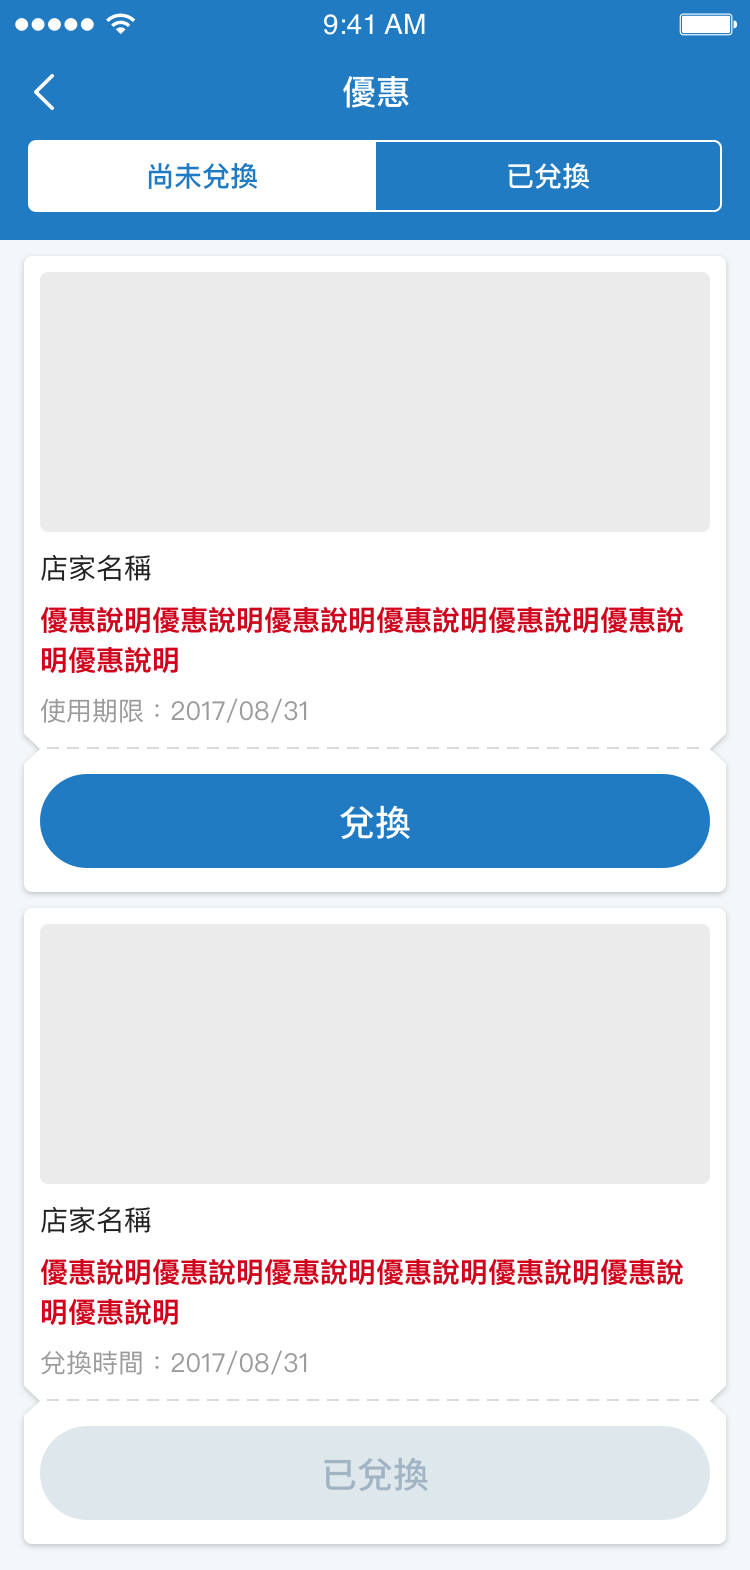
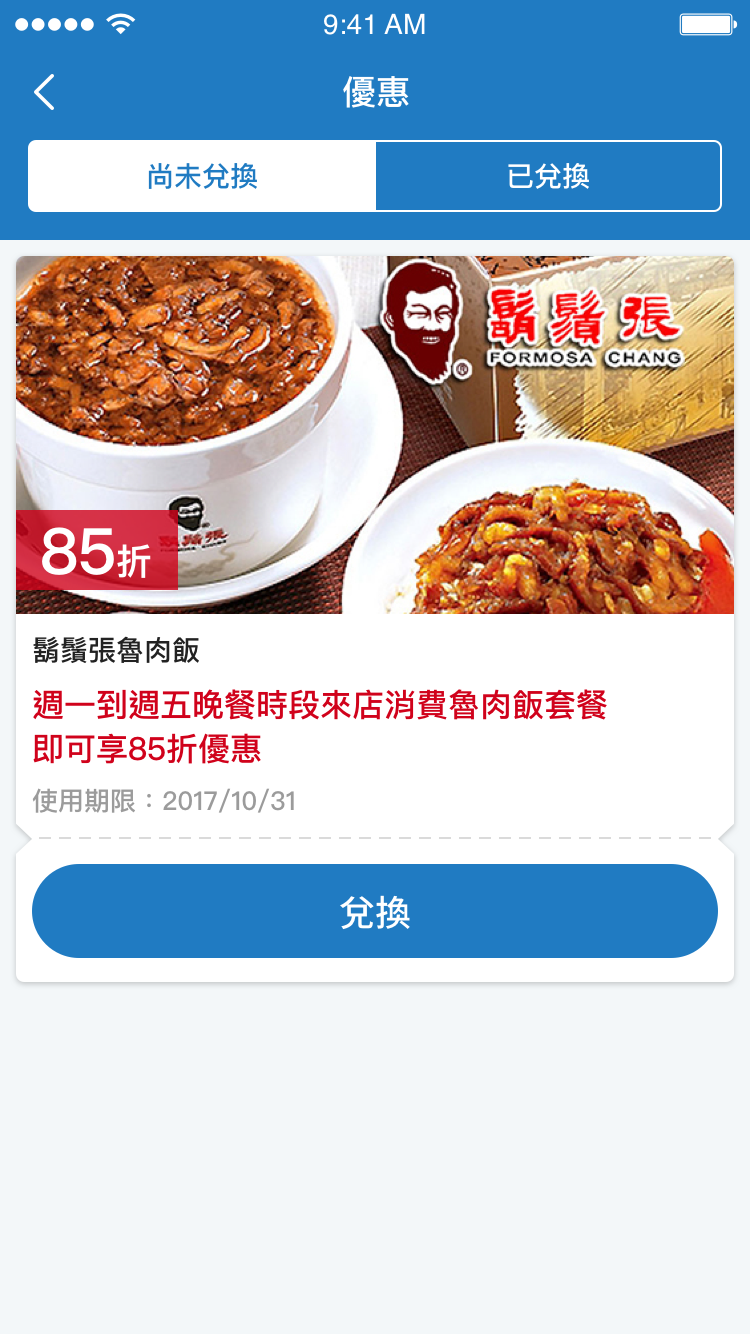
update

diff --git a/alley-balloon-coupon-layout/index.html b/alley-balloon-coupon-layout/index.html
@@ -1559,7 +1559,7 @@ var I18N = {},
     init.prototype = SMApp.fn;
     window.SMApp = SMApp;
 })(window);
-$(function(){ SMApp({"scale":"1","unit":"px","colorFormat":"color-hex","artboards":[{"layers":[{"objectID":"8610A9D0-973A-4421-8F44-31B89778BF35","type":"shape","name":"Rectangle 6","rect":{"x":0,"y":68,"width":375,"height":717},"rotation":0,"radius":0,"borders":[],"fills":[{"fillType":"color","color":{"r":243,"g":247,"b":249,"a":1,"color-hex":"#F4F8F9 100%","argb-hex":"#FFF4F8F9","css-rgba":"rgba(243,247,249,1)","ui-color":"(r:0.95 g:0.97 b:0.98 a:1.00)"}}],"shadows":[],"opacity":1,"styleName":"","css":["background: #F4F8F9;"]},{"objectID":"3B1EC3C6-A33A-4EE7-A2D1-324081E6A6C8","type":"shape","name":"background","rect":{"x":0,"y":24,"width":375,"height":96},"rotation":0,"radius":0,"borders":[],"fills":[{"fillType":"color","color":{"r":32,"g":123,"b":194,"a":1,"color-hex":"#207BC2 100%","argb-hex":"#FF207BC2","css-rgba":"rgba(32,123,194,1)","ui-color":"(r:0.13 g:0.48 b:0.76 a:1.00)"}}],"shadows":[],"opacity":1,"styleName":"status bar color","css":["background: #207BC2;"]},{"objectID":"BF7CF2E0-CB69-4DC6-8B53-1CFF3DAE0DD7","type":"shape","name":"ui_icon_prev_size","rect":{"x":10,"y":34,"width":24,"height":24},"rotation":0,"radius":0,"borders":[],"fills":[{"fillType":"color","color":{"r":255,"g":255,"b":255,"a":0,"color-hex":"#FFFFFF 0%","argb-hex":"#00FFFFFF","css-rgba":"rgba(255,255,255,0)","ui-color":"(r:1.00 g:1.00 b:1.00 a:0.00)"}}],"shadows":[],"opacity":1,"styleName":"","css":["background: rgba(255,255,255,0.00);"]},{"objectID":"324F9A0F-9A84-4340-9693-9F0C6B980D2B","type":"shape","name":"ui_icon_prev","rect":{"x":17,"y":37,"width":10,"height":18},"rotation":0,"radius":0,"borders":[],"fills":[{"fillType":"color","color":{"r":255,"g":255,"b":255,"a":1,"color-hex":"#FFFFFF 100%","argb-hex":"#FFFFFFFF","css-rgba":"rgba(255,255,255,1)","ui-color":"(r:1.00 g:1.00 b:1.00 a:1.00)"}}],"shadows":[],"opacity":1,"styleName":"","css":["background: #FFFFFF;"]},{"objectID":"C705EAAA-3D41-4813-89AF-B72F4C088D2E","type":"text","name":"優惠","rect":{"x":171,"y":34,"width":34,"height":24},"rotation":0,"radius":0,"borders":[],"fills":[],"shadows":[],"opacity":1,"styleName":"","content":"優惠","color":{"r":255,"g":255,"b":255,"a":1,"color-hex":"#FFFFFF 100%","argb-hex":"#FFFFFFFF","css-rgba":"rgba(255,255,255,1)","ui-color":"(r:1.00 g:1.00 b:1.00 a:1.00)"},"fontSize":17,"fontFace":"PingFangTC-Medium","textAlign":"center","letterSpacing":0,"lineHeight":24,"css":["font-family: PingFangTC-Medium;","font-size: 17px;","color: #FFFFFF;","letter-spacing: 0;"]},{"objectID":"1E3D4C58-2A70-46F6-A56C-1A8B91485D26","type":"shape","name":"BG","rect":{"x":0,"y":0,"width":375,"height":24},"rotation":0,"radius":0,"borders":[],"fills":[{"fillType":"color","color":{"r":32,"g":123,"b":194,"a":1,"color-hex":"#207BC2 100%","argb-hex":"#FF207BC2","css-rgba":"rgba(32,123,194,1)","ui-color":"(r:0.13 g:0.48 b:0.76 a:1.00)"}}],"shadows":[],"opacity":1,"styleName":"status bar color","css":["background: #207BC2;"]},{"objectID":"FBA2F31B-34FE-48B7-BB8A-BFACDF76E08A","type":"shape","name":"Battery","rect":{"x":339.8,"y":6.8,"width":28.7,"height":10.9},"rotation":0,"radius":0,"borders":[],"fills":[{"fillType":"color","color":{"r":255,"g":255,"b":255,"a":1,"color-hex":"#FFFFFF 100%","argb-hex":"#FFFFFFFF","css-rgba":"rgba(255,255,255,1)","ui-color":"(r:1.00 g:1.00 b:1.00 a:1.00)"}}],"shadows":[],"opacity":1,"styleName":"","css":["background: #FFFFFF;"]},{"objectID":"FB483434-2F03-4683-956F-0640AC6F3B1A","type":"text","name":"9:41 AM","rect":{"x":161.7,"y":2.9,"width":52,"height":17},"rotation":0,"radius":0,"borders":[],"fills":[],"shadows":[],"opacity":1,"styleName":"","content":"9:41 AM","color":{"r":255,"g":255,"b":255,"a":1,"color-hex":"#FFFFFF 100%","argb-hex":"#FFFFFFFF","css-rgba":"rgba(255,255,255,1)","ui-color":"(r:1.00 g:1.00 b:1.00 a:1.00)"},"fontSize":14.0625,"fontFace":"Helvetica","textAlign":"left","letterSpacing":0,"lineHeight":17,"css":["font-family: Helvetica;","font-size: 14.06px;","color: #FFFFFF;"]},{"objectID":"928CE732-A265-4B57-B723-18C6DA9BD9D1","type":"shape","name":"WiFi","rect":{"x":53.2,"y":6.7,"width":14.6,"height":10.4},"rotation":0,"radius":0,"borders":[],"fills":[{"fillType":"color","color":{"r":255,"g":255,"b":255,"a":1,"color-hex":"#FFFFFF 100%","argb-hex":"#FFFFFFFF","css-rgba":"rgba(255,255,255,1)","ui-color":"(r:1.00 g:1.00 b:1.00 a:1.00)"}}],"shadows":[],"opacity":1,"styleName":"","css":["background: #FFFFFF;"]},{"objectID":"B6E03900-EC7E-46A4-A78B-274AEFE6C1BF","type":"shape","name":"Bars","rect":{"x":7.6,"y":9,"width":39.3,"height":6.3},"rotation":0,"radius":0,"borders":[],"fills":[{"fillType":"color","color":{"r":255,"g":255,"b":255,"a":1,"color-hex":"#FFFFFF 100%","argb-hex":"#FFFFFFFF","css-rgba":"rgba(255,255,255,1)","ui-color":"(r:1.00 g:1.00 b:1.00 a:1.00)"}}],"shadows":[],"opacity":1,"styleName":"","css":["background: #FFFFFF;"]},{"objectID":"564F90EA-9BC2-44D7-970A-01A9C32FAA70","type":"shape","name":"Rectangle 7","rect":{"x":12,"y":128,"width":351,"height":318},"rotation":0,"radius":4,"borders":[],"fills":[{"fillType":"color","color":{"r":255,"g":255,"b":255,"a":1,"color-hex":"#FFFFFF 100%","argb-hex":"#FFFFFFFF","css-rgba":"rgba(255,255,255,1)","ui-color":"(r:1.00 g:1.00 b:1.00 a:1.00)"}}],"shadows":[{"type":"outer","offsetX":0,"offsetY":1,"blurRadius":3,"spread":0,"color":{"r":0,"g":0,"b":0,"a":0.19986979166666666,"color-hex":"#000000 20%","argb-hex":"#33000000","css-rgba":"rgba(0,0,0,0.2)","ui-color":"(r:0.00 g:0.00 b:0.00 a:0.20)"}}],"opacity":1,"styleName":"","css":["background: #FFFFFF;","box-shadow: 0 1px 3px 0 rgba(0,0,0,0.20);","border-radius: 4px 4px 0 0 0 4px 4px 0 0 0;"]},{"objectID":"C19F3055-AA9B-401D-B66C-4CAD36815E12","type":"shape","name":"Rectangle 3","rect":{"x":20,"y":387,"width":335,"height":47},"rotation":0,"radius":100,"borders":[],"fills":[{"fillType":"color","color":{"r":32,"g":123,"b":194,"a":1,"color-hex":"#207BC2 100%","argb-hex":"#FF207BC2","css-rgba":"rgba(32,123,194,1)","ui-color":"(r:0.13 g:0.48 b:0.76 a:1.00)"}}],"shadows":[],"opacity":1,"styleName":"","css":["background: #207BC2;","border-radius: 100px;"]},{"objectID":"FDAD7F8E-DA9B-4FC0-8BA6-B6952EA7FE68","type":"text","name":"兌換","rect":{"x":169,"y":397,"width":37,"height":27},"rotation":0,"radius":0,"borders":[],"fills":[],"shadows":[],"opacity":1,"styleName":"","content":"兌換","color":{"r":255,"g":255,"b":255,"a":1,"color-hex":"#FFFFFF 100%","argb-hex":"#FFFFFFFF","css-rgba":"rgba(255,255,255,1)","ui-color":"(r:1.00 g:1.00 b:1.00 a:1.00)"},"fontSize":18,"fontFace":"SourceHanSansTC-Medium","textAlign":"center","letterSpacing":0,"lineHeight":27,"css":["font-family: SourceHanSansTC-Medium;","font-size: 18px;","color: #FFFFFF;"]},{"objectID":"9CEFEEB9-65F5-45E2-8CB2-7EAFF09E5242","type":"shape","name":"Rectangle 8","rect":{"x":20,"y":136,"width":335,"height":130},"rotation":0,"radius":4,"borders":[],"fills":[{"fillType":"color","color":{"r":235,"g":235,"b":235,"a":1,"color-hex":"#ECECEC 100%","argb-hex":"#FFECECEC","css-rgba":"rgba(235,235,235,1)","ui-color":"(r:0.92 g:0.92 b:0.92 a:1.00)"}}],"shadows":[],"opacity":1,"styleName":"","css":["background: #ECECEC;","border-radius: 4px;"]},{"objectID":"6A7AD0DC-A009-48E6-B0F5-1644F9E1DBC2","type":"text","name":"店家名稱","rect":{"x":20,"y":274,"width":335,"height":20},"rotation":0,"radius":0,"borders":[],"fills":[],"shadows":[],"opacity":1,"styleName":"","content":"店家名稱","color":{"r":34,"g":34,"b":34,"a":1,"color-hex":"#222222 100%","argb-hex":"#FF222222","css-rgba":"rgba(34,34,34,1)","ui-color":"(r:0.13 g:0.13 b:0.13 a:1.00)"},"fontSize":14,"fontFace":"PingFangTC-Regular","textAlign":"left","letterSpacing":0,"lineHeight":20,"css":["font-family: PingFangTC-Regular;","font-size: 14px;","color: #222222;"]},{"objectID":"AF50EFF7-F386-4E2E-959D-EE3B07BD4F72","type":"text","name":"使用期限：2017/08/31","rect":{"x":20,"y":346,"width":135,"height":18},"rotation":0,"radius":0,"borders":[],"fills":[],"shadows":[],"opacity":1,"styleName":"","content":"使用期限：2017/08/31","color":{"r":155,"g":155,"b":155,"a":1,"color-hex":"#9B9B9B 100%","argb-hex":"#FF9B9B9B","css-rgba":"rgba(155,155,155,1)","ui-color":"(r:0.61 g:0.61 b:0.61 a:1.00)"},"fontSize":13,"fontFace":"PingFangTC-Regular","textAlign":"left","letterSpacing":0,"lineHeight":18,"css":["font-family: PingFangTC-Regular;","font-size: 13px;","color: #9B9B9B;"]},{"objectID":"43FEBCC8-FA78-43B3-AB3D-58E60FB1A6EE","type":"text","name":"優惠說明優惠說明優惠說明優惠說明優惠說明","rect":{"x":20,"y":300,"width":335,"height":40},"rotation":0,"radius":0,"borders":[],"fills":[],"shadows":[],"opacity":1,"styleName":"","content":"優惠說明優惠說明優惠說明優惠說明優惠說明優惠說明優惠說明","color":{"r":208,"g":2,"b":27,"a":1,"color-hex":"#D0011B 100%","argb-hex":"#FFD0011B","css-rgba":"rgba(208,2,27,1)","ui-color":"(r:0.82 g:0.01 b:0.11 a:1.00)"},"fontSize":14,"fontFace":"PingFangTC-Semibold","textAlign":"left","letterSpacing":0,"lineHeight":20,"css":["font-family: PingFangTC-Semibold;","font-size: 14px;","color: #D0011B;"]},{"objectID":"F455182E-896A-410B-8F58-A05C8C5017A7","type":"shape","name":"Line","rect":{"x":24,"y":373,"width":330,"height":2},"rotation":0,"radius":0,"borders":[{"fillType":"color","position":"center","thickness":1,"color":{"r":218,"g":218,"b":218,"a":1,"color-hex":"#DADADA 100%","argb-hex":"#FFDADADA","css-rgba":"rgba(218,218,218,1)","ui-color":"(r:0.85 g:0.85 b:0.85 a:1.00)"}}],"fills":[],"shadows":[],"opacity":1,"styleName":"","css":["border: 1px solid #DADADA;"]},{"objectID":"1D7B16E3-2DB3-4CAC-9AE8-14DD0020FBD6","type":"shape","name":"Rectangle 7","rect":{"x":12,"y":454,"width":351,"height":318},"rotation":0,"radius":4,"borders":[],"fills":[{"fillType":"color","color":{"r":255,"g":255,"b":255,"a":1,"color-hex":"#FFFFFF 100%","argb-hex":"#FFFFFFFF","css-rgba":"rgba(255,255,255,1)","ui-color":"(r:1.00 g:1.00 b:1.00 a:1.00)"}}],"shadows":[{"type":"outer","offsetX":0,"offsetY":1,"blurRadius":3,"spread":0,"color":{"r":0,"g":0,"b":0,"a":0.1998697916666667,"color-hex":"#000000 20%","argb-hex":"#33000000","css-rgba":"rgba(0,0,0,0.2)","ui-color":"(r:0.00 g:0.00 b:0.00 a:0.20)"}}],"opacity":1,"styleName":"","css":["background: #FFFFFF;","box-shadow: 0 1px 3px 0 rgba(0,0,0,0.20);","border-radius: 4px 4px 0 0 0 4px 4px 0 0 0;"]},{"objectID":"BB6C82DF-63BF-4619-989B-9B29CB90D52D","type":"shape","name":"Rectangle 3","rect":{"x":20,"y":713,"width":335,"height":47},"rotation":0,"radius":100,"borders":[],"fills":[{"fillType":"color","color":{"r":222,"g":231,"b":235,"a":1,"color-hex":"#DEE7EB 100%","argb-hex":"#FFDEE7EB","css-rgba":"rgba(222,231,235,1)","ui-color":"(r:0.87 g:0.91 b:0.92 a:1.00)"}}],"shadows":[],"opacity":1,"styleName":"","css":["background: #DEE7EB;","border-radius: 100px;"]},{"objectID":"3D98A926-83EE-4628-A8CC-85A8447E74AE","type":"text","name":"已兌換","rect":{"x":160,"y":723,"width":55,"height":27},"rotation":0,"radius":0,"borders":[],"fills":[],"shadows":[],"opacity":1,"styleName":"","content":"已兌換","color":{"r":160,"g":180,"b":195,"a":1,"color-hex":"#A0B4C3 100%","argb-hex":"#FFA0B4C3","css-rgba":"rgba(160,180,195,1)","ui-color":"(r:0.63 g:0.71 b:0.76 a:1.00)"},"fontSize":18,"fontFace":"SourceHanSansTC-Medium","textAlign":"center","letterSpacing":0,"lineHeight":27,"css":["font-family: SourceHanSansTC-Medium;","font-size: 18px;","color: #A0B4C3;"]},{"objectID":"3023BD73-C5A6-481F-8CC7-C3C11FA6EC6D","type":"shape","name":"Rectangle 8","rect":{"x":20,"y":462,"width":335,"height":130},"rotation":0,"radius":4,"borders":[],"fills":[{"fillType":"color","color":{"r":235,"g":235,"b":235,"a":1,"color-hex":"#ECECEC 100%","argb-hex":"#FFECECEC","css-rgba":"rgba(235,235,235,1)","ui-color":"(r:0.92 g:0.92 b:0.92 a:1.00)"}}],"shadows":[],"opacity":1,"styleName":"","css":["background: #ECECEC;","border-radius: 4px;"]},{"objectID":"A327F0F1-8721-4342-9470-40E72FF1C18F","type":"text","name":"店家名稱","rect":{"x":20,"y":600,"width":335,"height":20},"rotation":0,"radius":0,"borders":[],"fills":[],"shadows":[],"opacity":1,"styleName":"","content":"店家名稱","color":{"r":34,"g":34,"b":34,"a":1,"color-hex":"#222222 100%","argb-hex":"#FF222222","css-rgba":"rgba(34,34,34,1)","ui-color":"(r:0.13 g:0.13 b:0.13 a:1.00)"},"fontSize":14,"fontFace":"PingFangTC-Regular","textAlign":"left","letterSpacing":0,"lineHeight":20,"css":["font-family: PingFangTC-Regular;","font-size: 14px;","color: #222222;"]},{"objectID":"D425C6B4-1668-43CD-8867-7E86ECD4D1BE","type":"text","name":"兌換時間：2017/08/31","rect":{"x":20,"y":672,"width":135,"height":18},"rotation":0,"radius":0,"borders":[],"fills":[],"shadows":[],"opacity":1,"styleName":"","content":"兌換時間：2017/08/31","color":{"r":155,"g":155,"b":155,"a":1,"color-hex":"#9B9B9B 100%","argb-hex":"#FF9B9B9B","css-rgba":"rgba(155,155,155,1)","ui-color":"(r:0.61 g:0.61 b:0.61 a:1.00)"},"fontSize":13,"fontFace":"PingFangTC-Regular","textAlign":"left","letterSpacing":0,"lineHeight":18,"css":["font-family: PingFangTC-Regular;","font-size: 13px;","color: #9B9B9B;"]},{"objectID":"24D66BE6-7290-4A2D-88B8-FA772290F6FC","type":"text","name":"優惠說明優惠說明優惠說明優惠說明優惠說明","rect":{"x":20,"y":626,"width":335,"height":40},"rotation":0,"radius":0,"borders":[],"fills":[],"shadows":[],"opacity":1,"styleName":"","content":"優惠說明優惠說明優惠說明優惠說明優惠說明優惠說明優惠說明","color":{"r":208,"g":2,"b":27,"a":1,"color-hex":"#D0011B 100%","argb-hex":"#FFD0011B","css-rgba":"rgba(208,2,27,1)","ui-color":"(r:0.82 g:0.01 b:0.11 a:1.00)"},"fontSize":14,"fontFace":"PingFangTC-Semibold","textAlign":"left","letterSpacing":0,"lineHeight":20,"css":["font-family: PingFangTC-Semibold;","font-size: 14px;","color: #D0011B;"]},{"objectID":"D3A1AC1D-FB76-4B77-8191-3B8A6E1DE126","type":"shape","name":"Line","rect":{"x":24,"y":699,"width":330,"height":2},"rotation":0,"radius":0,"borders":[{"fillType":"color","position":"center","thickness":1,"color":{"r":218,"g":218,"b":218,"a":1,"color-hex":"#DADADA 100%","argb-hex":"#FFDADADA","css-rgba":"rgba(218,218,218,1)","ui-color":"(r:0.85 g:0.85 b:0.85 a:1.00)"}}],"fills":[],"shadows":[],"opacity":1,"styleName":"","css":["border: 1px solid #DADADA;"]},{"objectID":"47883417-43EE-4E89-BBE9-F449707DDE9F","type":"shape","name":"Rectangle 3","rect":{"x":14,"y":70,"width":347,"height":36},"rotation":0,"radius":4,"borders":[],"fills":[{"fillType":"color","color":{"r":255,"g":255,"b":255,"a":1,"color-hex":"#FFFFFF 100%","argb-hex":"#FFFFFFFF","css-rgba":"rgba(255,255,255,1)","ui-color":"(r:1.00 g:1.00 b:1.00 a:1.00)"}}],"shadows":[],"opacity":1,"styleName":"","css":["background: #FFFFFF;","border-radius: 4px;"]},{"objectID":"6AC21FC9-ECC4-40AB-88AD-08A01497820F","type":"shape","name":"Rectangle 3","rect":{"x":188,"y":71,"width":172,"height":34},"rotation":0,"radius":0,"borders":[],"fills":[{"fillType":"color","color":{"r":32,"g":123,"b":194,"a":1,"color-hex":"#207BC2 100%","argb-hex":"#FF207BC2","css-rgba":"rgba(32,123,194,1)","ui-color":"(r:0.13 g:0.48 b:0.76 a:1.00)"}}],"shadows":[],"opacity":1,"styleName":"","css":["background: #207BC2;"]},{"objectID":"D591C53B-7516-4B06-A9FC-4A60BE2DE721","type":"text","name":"尚未兌換","rect":{"x":73,"y":78,"width":56,"height":20},"rotation":0,"radius":0,"borders":[],"fills":[],"shadows":[],"opacity":1,"styleName":"","content":"尚未兌換","color":{"r":32,"g":123,"b":194,"a":1,"color-hex":"#207BC2 100%","argb-hex":"#FF207BC2","css-rgba":"rgba(32,123,194,1)","ui-color":"(r:0.13 g:0.48 b:0.76 a:1.00)"},"fontSize":14,"fontFace":"PingFangTC-Medium","textAlign":"center","letterSpacing":0,"lineHeight":20,"css":["font-family: PingFangTC-Medium;","font-size: 14px;","color: #207BC2;","letter-spacing: 0;"]},{"objectID":"4C8AF61C-C649-4CAF-B03F-8A0C7A4D0B8E","type":"text","name":"已兌換","rect":{"x":253,"y":78,"width":42,"height":20},"rotation":0,"radius":0,"borders":[],"fills":[],"shadows":[],"opacity":1,"styleName":"","content":"已兌換","color":{"r":255,"g":255,"b":255,"a":1,"color-hex":"#FFFFFF 100%","argb-hex":"#FFFFFFFF","css-rgba":"rgba(255,255,255,1)","ui-color":"(r:1.00 g:1.00 b:1.00 a:1.00)"},"fontSize":14,"fontFace":"PingFangTC-Medium","textAlign":"center","letterSpacing":0,"lineHeight":20,"css":["font-family: PingFangTC-Medium;","font-size: 14px;","color: #FFFFFF;","letter-spacing: 0;"]}],"notes":[],"pageName":"Page 1","pageObjectID":"5A306ABE-D81A-4EC7-8DB8-E666D32B7554","name":"iOS - coupon","slug":"page-1-ios---coupon","objectID":"9FD0C7C3-FB53-46DF-8336-A58356D232E7","width":375,"height":785,"imagePath":"preview/page-1-ios---coupon.png"},{"layers":[{"objectID":"0054B50E-F62D-4817-B468-904495C669F1","type":"shape","name":"Rectangle","rect":{"x":0,"y":0,"width":360,"height":878},"rotation":0,"radius":0,"borders":[],"fills":[{"fillType":"color","color":{"r":243,"g":247,"b":249,"a":1,"color-hex":"#F3F7F9 100%","argb-hex":"#FFF3F7F9","css-rgba":"rgba(243,247,249,1)","ui-color":"(r:0.95 g:0.97 b:0.98 a:1.00)"}}],"shadows":[],"opacity":1,"styleName":"","css":["background: #F3F7F9;"]},{"objectID":"33516554-93B0-4E21-89DC-5E5AEB976D08","type":"shape","name":"app bar bg","rect":{"x":0,"y":24,"width":360,"height":96},"rotation":0,"radius":0,"borders":[],"fills":[{"fillType":"color","color":{"r":32,"g":123,"b":194,"a":1,"color-hex":"#207BC2 100%","argb-hex":"#FF207BC2","css-rgba":"rgba(32,123,194,1)","ui-color":"(r:0.13 g:0.48 b:0.76 a:1.00)"}}],"shadows":[{"type":"outer","offsetX":0,"offsetY":2,"blurRadius":2,"spread":0,"color":{"r":0,"g":0,"b":0,"a":0.24,"color-hex":"#000000 24%","argb-hex":"#3D000000","css-rgba":"rgba(0,0,0,0.24)","ui-color":"(r:0.00 g:0.00 b:0.00 a:0.24)"}},{"type":"outer","offsetX":0,"offsetY":0,"blurRadius":2,"spread":0,"color":{"r":0,"g":0,"b":0,"a":0.12,"color-hex":"#000000 12%","argb-hex":"#1F000000","css-rgba":"rgba(0,0,0,0.12)","ui-color":"(r:0.00 g:0.00 b:0.00 a:0.12)"}}],"opacity":1,"styleName":"","css":["background: #207BC2;","box-shadow: 0 0 2px 0 rgba(0,0,0,0.12), 0 2px 2px 0 rgba(0,0,0,0.24);"]},{"objectID":"EE8B520B-FBB6-4687-9A4A-5CC203A3DA09","type":"text","name":"優惠","rect":{"x":72,"y":37.3,"width":74,"height":29},"rotation":0,"radius":0,"borders":[],"fills":[],"shadows":[],"opacity":1,"styleName":"","content":"優惠","color":{"r":255,"g":255,"b":255,"a":1,"color-hex":"#FFFFFF 100%","argb-hex":"#FFFFFFFF","css-rgba":"rgba(255,255,255,1)","ui-color":"(r:1.00 g:1.00 b:1.00 a:1.00)"},"fontSize":20,"fontFace":"SourceHanSansTC-Medium","textAlign":"left","letterSpacing":0,"lineHeight":29,"css":["font-family: SourceHanSansTC-Medium;","font-size: 20px;","color: #FFFFFF;"]},{"objectID":"6C8DEEC7-DC33-4973-98C8-6A7AE0A5312C","type":"shape","name":"Imported Layers 14","rect":{"x":20,"y":45,"width":16,"height":16},"rotation":0,"radius":0,"borders":[],"fills":[{"fillType":"color","color":{"r":255,"g":255,"b":255,"a":1,"color-hex":"#FFFFFF 100%","argb-hex":"#FFFFFFFF","css-rgba":"rgba(255,255,255,1)","ui-color":"(r:1.00 g:1.00 b:1.00 a:1.00)"}}],"shadows":[],"opacity":1,"styleName":"","css":["background: #FFFFFF;"]},{"objectID":"4AEF9EF4-4363-4717-9141-5C423B84013B","type":"shape","name":"status bar bg","rect":{"x":0,"y":0,"width":360,"height":24},"rotation":0,"radius":0,"borders":[],"fills":[{"fillType":"color","color":{"r":32,"g":123,"b":194,"a":1,"color-hex":"#207BC2 100%","argb-hex":"#FF207BC2","css-rgba":"rgba(32,123,194,1)","ui-color":"(r:0.13 g:0.48 b:0.76 a:1.00)"}}],"shadows":[],"opacity":1,"styleName":"","css":["background: #207BC2;"]},{"objectID":"7D937BC7-B0EB-4108-9E84-AFF099400E6F","type":"symbol","name":"navbar","rect":{"x":0,"y":796,"width":360,"height":48},"rotation":0,"radius":0,"borders":[],"fills":[],"shadows":[],"opacity":1,"styleName":""},{"objectID":"AD6354F9-BB89-4990-8B0B-B83D3974CDCE","type":"shape","name":"navbar bg","rect":{"x":0,"y":796,"width":360,"height":48},"rotation":0,"radius":0,"borders":[],"fills":[{"fillType":"color","color":{"r":0,"g":0,"b":0,"a":1,"color-hex":"#000000 100%","argb-hex":"#FF000000","css-rgba":"rgba(0,0,0,1)","ui-color":"(r:0.00 g:0.00 b:0.00 a:1.00)"}}],"shadows":[],"opacity":1,"styleName":"","css":["background: #000000;"]},{"objectID":"A80C1003-AD50-41F8-83A4-019B8D390FC8","type":"shape","name":"recent","rect":{"x":273,"y":812,"width":16,"height":16},"rotation":0,"radius":2,"borders":[{"fillType":"color","position":"inside","thickness":2,"color":{"r":255,"g":255,"b":255,"a":1,"color-hex":"#FFFFFF 100%","argb-hex":"#FFFFFFFF","css-rgba":"rgba(255,255,255,1)","ui-color":"(r:1.00 g:1.00 b:1.00 a:1.00)"}}],"fills":[],"shadows":[],"opacity":1,"styleName":"","css":["border: 2px solid #FFFFFF;","border-radius: 2px;"]},{"objectID":"86CA2865-7CAC-4F6C-B806-65973C1A97A8","type":"shape","name":"home","rect":{"x":172,"y":812,"width":16,"height":16},"rotation":0,"radius":0,"borders":[{"fillType":"color","position":"inside","thickness":2,"color":{"r":255,"g":255,"b":255,"a":1,"color-hex":"#FFFFFF 100%","argb-hex":"#FFFFFFFF","css-rgba":"rgba(255,255,255,1)","ui-color":"(r:1.00 g:1.00 b:1.00 a:1.00)"}}],"fills":[],"shadows":[],"opacity":1,"styleName":"","css":["border: 2px solid #FFFFFF;"]},{"objectID":"5526CE7F-5C36-4D43-B836-4FDA22039F9F","type":"shape","name":"back","rect":{"x":72,"y":811,"width":15,"height":17},"rotation":0,"radius":0,"borders":[{"fillType":"color","position":"inside","thickness":2,"color":{"r":255,"g":255,"b":255,"a":1,"color-hex":"#FFFFFF 100%","argb-hex":"#FFFFFFFF","css-rgba":"rgba(255,255,255,1)","ui-color":"(r:1.00 g:1.00 b:1.00 a:1.00)"}}],"fills":[],"shadows":[],"opacity":1,"styleName":"","css":["border: 2px solid #FFFFFF;"]},{"objectID":"9E74D9DE-6857-4F37-9BF4-C5A9B558F40F","type":"text","name":"尚未兌換","rect":{"x":58,"y":82,"width":64,"height":24},"rotation":0,"radius":0,"borders":[],"fills":[],"shadows":[],"opacity":1,"styleName":"","content":"尚未兌換","color":{"r":255,"g":255,"b":255,"a":1,"color-hex":"#FFFFFF 100%","argb-hex":"#FFFFFFFF","css-rgba":"rgba(255,255,255,1)","ui-color":"(r:1.00 g:1.00 b:1.00 a:1.00)"},"fontSize":16,"fontFace":"SourceHanSansTC-Medium","textAlign":"center","letterSpacing":0,"lineHeight":24,"css":["font-family: SourceHanSansTC-Medium;","font-size: 16px;","color: #FFFFFF;","letter-spacing: 0;"]},{"objectID":"DF1214D8-5883-4F3D-86D0-CF2242588613","type":"shape","name":"Rectangle 62","rect":{"x":0,"y":117,"width":180,"height":3},"rotation":0,"radius":0,"borders":[],"fills":[{"fillType":"color","color":{"r":255,"g":255,"b":255,"a":1,"color-hex":"#FFFFFF 100%","argb-hex":"#FFFFFFFF","css-rgba":"rgba(255,255,255,1)","ui-color":"(r:1.00 g:1.00 b:1.00 a:1.00)"}}],"shadows":[],"opacity":1,"styleName":"","css":["background: #FFFFFF;"]},{"objectID":"7A85C6A4-C2B1-4DF9-8B29-C108E333DD54","type":"text","name":"已兌換","rect":{"x":246,"y":82,"width":48,"height":24},"rotation":0,"radius":0,"borders":[],"fills":[],"shadows":[],"opacity":1,"styleName":"","content":"已兌換","color":{"r":255,"g":255,"b":255,"a":1,"color-hex":"#FFFFFF 100%","argb-hex":"#FFFFFFFF","css-rgba":"rgba(255,255,255,1)","ui-color":"(r:1.00 g:1.00 b:1.00 a:1.00)"},"fontSize":16,"fontFace":"SourceHanSansTC-Medium","textAlign":"center","letterSpacing":0,"lineHeight":24,"css":["font-family: SourceHanSansTC-Medium;","font-size: 16px;","color: #FFFFFF;","letter-spacing: 0;"]},{"objectID":"4D948D5E-CE35-422D-AACF-2C2EC2E979A4","type":"shape","name":"Rectangle 7","rect":{"x":8,"y":128,"width":344,"height":318},"rotation":0,"radius":4,"borders":[],"fills":[{"fillType":"color","color":{"r":255,"g":255,"b":255,"a":1,"color-hex":"#FFFFFF 100%","argb-hex":"#FFFFFFFF","css-rgba":"rgba(255,255,255,1)","ui-color":"(r:1.00 g:1.00 b:1.00 a:1.00)"}}],"shadows":[{"type":"outer","offsetX":0,"offsetY":1,"blurRadius":3,"spread":0,"color":{"r":0,"g":0,"b":0,"a":0.1998697916666667,"color-hex":"#000000 20%","argb-hex":"#33000000","css-rgba":"rgba(0,0,0,0.2)","ui-color":"(r:0.00 g:0.00 b:0.00 a:0.20)"}}],"opacity":1,"styleName":"","css":["background: #FFFFFF;","box-shadow: 0 1px 3px 0 rgba(0,0,0,0.20);","border-radius: 4px 4px 0 0 0 4px 4px 0 0 0;"]},{"objectID":"6B3F3031-AA7B-48C7-8F60-5EE91B11F732","type":"shape","name":"Rectangle 3","rect":{"x":16,"y":387,"width":328,"height":47},"rotation":0,"radius":100,"borders":[],"fills":[{"fillType":"color","color":{"r":32,"g":123,"b":194,"a":1,"color-hex":"#207BC2 100%","argb-hex":"#FF207BC2","css-rgba":"rgba(32,123,194,1)","ui-color":"(r:0.13 g:0.48 b:0.76 a:1.00)"}}],"shadows":[],"opacity":1,"styleName":"","css":["background: #207BC2;","border-radius: 100px;"]},{"objectID":"F1C509A8-13F5-4A68-8281-91AEF875205D","type":"text","name":"兌換","rect":{"x":165,"y":397,"width":37,"height":27},"rotation":0,"radius":0,"borders":[],"fills":[],"shadows":[],"opacity":1,"styleName":"","content":"兌換","color":{"r":255,"g":255,"b":255,"a":1,"color-hex":"#FFFFFF 100%","argb-hex":"#FFFFFFFF","css-rgba":"rgba(255,255,255,1)","ui-color":"(r:1.00 g:1.00 b:1.00 a:1.00)"},"fontSize":18,"fontFace":"SourceHanSansTC-Medium","textAlign":"center","letterSpacing":0,"lineHeight":27,"css":["font-family: SourceHanSansTC-Medium;","font-size: 18px;","color: #FFFFFF;"]},{"objectID":"B68A945D-9BD5-44C9-B4AD-968A9C19824F","type":"shape","name":"Rectangle 8","rect":{"x":16,"y":136,"width":328,"height":130},"rotation":0,"radius":4,"borders":[],"fills":[{"fillType":"color","color":{"r":235,"g":235,"b":235,"a":1,"color-hex":"#ECECEC 100%","argb-hex":"#FFECECEC","css-rgba":"rgba(235,235,235,1)","ui-color":"(r:0.92 g:0.92 b:0.92 a:1.00)"}}],"shadows":[],"opacity":1,"styleName":"","css":["background: #ECECEC;","border-radius: 4px;"]},{"objectID":"83213F6F-A0FA-4897-9BBA-9DEF82EFBC8C","type":"text","name":"店家名稱","rect":{"x":16,"y":273,"width":328,"height":20},"rotation":0,"radius":0,"borders":[],"fills":[],"shadows":[],"opacity":1,"styleName":"","content":"店家名稱","color":{"r":34,"g":34,"b":34,"a":1,"color-hex":"#222222 100%","argb-hex":"#FF222222","css-rgba":"rgba(34,34,34,1)","ui-color":"(r:0.13 g:0.13 b:0.13 a:1.00)"},"fontSize":14,"fontFace":"SourceHanSansTC-Normal","textAlign":"left","letterSpacing":0,"lineHeight":20,"css":["font-family: SourceHanSansTC-Normal;","font-size: 14px;","color: #222222;"]},{"objectID":"10BFEDC5-B832-4EB1-8AD3-83F3A40E6444","type":"text","name":"使用期限：2017/08/31","rect":{"x":16,"y":345,"width":133,"height":19},"rotation":0,"radius":0,"borders":[],"fills":[],"shadows":[],"opacity":1,"styleName":"","content":"使用期限：2017/08/31","color":{"r":155,"g":155,"b":155,"a":1,"color-hex":"#9B9B9B 100%","argb-hex":"#FF9B9B9B","css-rgba":"rgba(155,155,155,1)","ui-color":"(r:0.61 g:0.61 b:0.61 a:1.00)"},"fontSize":13,"fontFace":"SourceHanSansTC-Normal","textAlign":"left","letterSpacing":0,"lineHeight":19,"css":["font-family: SourceHanSansTC-Normal;","font-size: 13px;","color: #9B9B9B;"]},{"objectID":"C6C1D5A6-3AF9-4E57-BBB4-FC7D4C6AE794","type":"text","name":"優惠說明優惠說明優惠說明優惠說明優惠說明","rect":{"x":16,"y":299,"width":328,"height":40},"rotation":0,"radius":0,"borders":[],"fills":[],"shadows":[],"opacity":1,"styleName":"","content":"優惠說明優惠說明優惠說明優惠說明優惠說明優惠說明優惠說明","color":{"r":208,"g":2,"b":27,"a":1,"color-hex":"#D0011B 100%","argb-hex":"#FFD0011B","css-rgba":"rgba(208,2,27,1)","ui-color":"(r:0.82 g:0.01 b:0.11 a:1.00)"},"fontSize":14,"fontFace":"SourceHanSansTC-Bold","textAlign":"left","letterSpacing":0,"lineHeight":20,"css":["font-family: SourceHanSansTC-Bold;","font-size: 14px;","color: #D0011B;"]},{"objectID":"5784A771-D3D7-4E72-9F78-8C99E77F3606","type":"shape","name":"Line","rect":{"x":20,"y":373,"width":330,"height":2},"rotation":0,"radius":0,"borders":[{"fillType":"color","position":"center","thickness":1,"color":{"r":218,"g":218,"b":218,"a":1,"color-hex":"#DADADA 100%","argb-hex":"#FFDADADA","css-rgba":"rgba(218,218,218,1)","ui-color":"(r:0.85 g:0.85 b:0.85 a:1.00)"}}],"fills":[],"shadows":[],"opacity":1,"styleName":"","css":["border: 1px solid #DADADA;"]},{"objectID":"526A2D67-0434-4E83-A9D9-AAF28386BE80","type":"shape","name":"Rectangle 7","rect":{"x":8,"y":454,"width":344,"height":318},"rotation":0,"radius":4,"borders":[],"fills":[{"fillType":"color","color":{"r":255,"g":255,"b":255,"a":1,"color-hex":"#FFFFFF 100%","argb-hex":"#FFFFFFFF","css-rgba":"rgba(255,255,255,1)","ui-color":"(r:1.00 g:1.00 b:1.00 a:1.00)"}}],"shadows":[{"type":"outer","offsetX":0,"offsetY":1,"blurRadius":3,"spread":0,"color":{"r":0,"g":0,"b":0,"a":0.1998697916666667,"color-hex":"#000000 20%","argb-hex":"#33000000","css-rgba":"rgba(0,0,0,0.2)","ui-color":"(r:0.00 g:0.00 b:0.00 a:0.20)"}}],"opacity":1,"styleName":"","css":["background: #FFFFFF;","box-shadow: 0 1px 3px 0 rgba(0,0,0,0.20);","border-radius: 4px 4px 0 0 0 4px 4px 0 0 0;"]},{"objectID":"BE6C8665-ECC4-4E81-A5D6-51DCFC884EEC","type":"shape","name":"Rectangle 3","rect":{"x":16,"y":713,"width":328,"height":47},"rotation":0,"radius":100,"borders":[],"fills":[{"fillType":"color","color":{"r":222,"g":231,"b":235,"a":1,"color-hex":"#DEE7EB 100%","argb-hex":"#FFDEE7EB","css-rgba":"rgba(222,231,235,1)","ui-color":"(r:0.87 g:0.91 b:0.92 a:1.00)"}}],"shadows":[],"opacity":1,"styleName":"","css":["background: #DEE7EB;","border-radius: 100px;"]},{"objectID":"62DAE8A9-4DC5-409B-850D-852C6E59EB4C","type":"text","name":"已兌換","rect":{"x":156,"y":723,"width":55,"height":27},"rotation":0,"radius":0,"borders":[],"fills":[],"shadows":[],"opacity":1,"styleName":"","content":"已兌換","color":{"r":160,"g":180,"b":195,"a":1,"color-hex":"#A0B4C3 100%","argb-hex":"#FFA0B4C3","css-rgba":"rgba(160,180,195,1)","ui-color":"(r:0.63 g:0.71 b:0.76 a:1.00)"},"fontSize":18,"fontFace":"SourceHanSansTC-Medium","textAlign":"center","letterSpacing":0,"lineHeight":27,"css":["font-family: SourceHanSansTC-Medium;","font-size: 18px;","color: #A0B4C3;"]},{"objectID":"3DB5C054-3B38-42F6-94D1-E9EFBAFA7EB8","type":"shape","name":"Rectangle 8","rect":{"x":16,"y":462,"width":328,"height":130},"rotation":0,"radius":4,"borders":[],"fills":[{"fillType":"color","color":{"r":235,"g":235,"b":235,"a":1,"color-hex":"#ECECEC 100%","argb-hex":"#FFECECEC","css-rgba":"rgba(235,235,235,1)","ui-color":"(r:0.92 g:0.92 b:0.92 a:1.00)"}}],"shadows":[],"opacity":1,"styleName":"","css":["background: #ECECEC;","border-radius: 4px;"]},{"objectID":"90649714-167A-467B-AE55-9022911ECB8E","type":"text","name":"店家名稱","rect":{"x":16,"y":599,"width":328,"height":20},"rotation":0,"radius":0,"borders":[],"fills":[],"shadows":[],"opacity":1,"styleName":"","content":"店家名稱","color":{"r":34,"g":34,"b":34,"a":1,"color-hex":"#222222 100%","argb-hex":"#FF222222","css-rgba":"rgba(34,34,34,1)","ui-color":"(r:0.13 g:0.13 b:0.13 a:1.00)"},"fontSize":14,"fontFace":"SourceHanSansTC-Normal","textAlign":"left","letterSpacing":0,"lineHeight":20,"css":["font-family: SourceHanSansTC-Normal;","font-size: 14px;","color: #222222;"]},{"objectID":"3C579C19-9C40-4809-A86B-1779A9BB3C3B","type":"text","name":"兌換時間：2017/08/31","rect":{"x":16,"y":671,"width":133,"height":19},"rotation":0,"radius":0,"borders":[],"fills":[],"shadows":[],"opacity":1,"styleName":"","content":"兌換時間：2017/08/31","color":{"r":155,"g":155,"b":155,"a":1,"color-hex":"#9B9B9B 100%","argb-hex":"#FF9B9B9B","css-rgba":"rgba(155,155,155,1)","ui-color":"(r:0.61 g:0.61 b:0.61 a:1.00)"},"fontSize":13,"fontFace":"SourceHanSansTC-Normal","textAlign":"left","letterSpacing":0,"lineHeight":19,"css":["font-family: SourceHanSansTC-Normal;","font-size: 13px;","color: #9B9B9B;"]},{"objectID":"8D212826-2A0E-4F34-B0FF-02FF42234DFC","type":"text","name":"優惠說明優惠說明優惠說明優惠說明優惠說明","rect":{"x":16,"y":625,"width":328,"height":40},"rotation":0,"radius":0,"borders":[],"fills":[],"shadows":[],"opacity":1,"styleName":"","content":"優惠說明優惠說明優惠說明優惠說明優惠說明優惠說明優惠說明","color":{"r":208,"g":2,"b":27,"a":1,"color-hex":"#D0011B 100%","argb-hex":"#FFD0011B","css-rgba":"rgba(208,2,27,1)","ui-color":"(r:0.82 g:0.01 b:0.11 a:1.00)"},"fontSize":14,"fontFace":"SourceHanSansTC-Bold","textAlign":"left","letterSpacing":0,"lineHeight":20,"css":["font-family: SourceHanSansTC-Bold;","font-size: 14px;","color: #D0011B;"]},{"objectID":"B56AEF46-E848-462C-AEC3-7A61D19AD725","type":"shape","name":"Line","rect":{"x":20,"y":699,"width":330,"height":2},"rotation":0,"radius":0,"borders":[{"fillType":"color","position":"center","thickness":1,"color":{"r":218,"g":218,"b":218,"a":1,"color-hex":"#DADADA 100%","argb-hex":"#FFDADADA","css-rgba":"rgba(218,218,218,1)","ui-color":"(r:0.85 g:0.85 b:0.85 a:1.00)"}}],"fills":[],"shadows":[],"opacity":1,"styleName":"","css":["border: 1px solid #DADADA;"]}],"notes":[],"pageName":"Page 1","pageObjectID":"5A306ABE-D81A-4EC7-8DB8-E666D32B7554","name":"Android - coupon","slug":"page-1-android---coupon","objectID":"4DB211F1-2109-464F-9BB5-246C07A6879A","width":360,"height":844,"imagePath":"preview/page-1-android---coupon.png"}],"slices":[],"colors":[]}) });
+$(function(){ SMApp({"scale":"1","unit":"px","colorFormat":"color-hex","artboards":[{"layers":[{"objectID":"8610A9D0-973A-4421-8F44-31B89778BF35","type":"shape","name":"Rectangle 6","rect":{"x":0,"y":68,"width":375,"height":717},"rotation":0,"radius":0,"borders":[],"fills":[{"fillType":"color","color":{"r":243,"g":247,"b":249,"a":1,"color-hex":"#F3F7F9 100%","argb-hex":"#FFF3F7F9","css-rgba":"rgba(243,247,249,1)","ui-color":"(r:0.95 g:0.97 b:0.98 a:1.00)"}}],"shadows":[],"opacity":1,"styleName":"","css":["background: #F3F7F9;"]},{"objectID":"3B1EC3C6-A33A-4EE7-A2D1-324081E6A6C8","type":"shape","name":"background","rect":{"x":0,"y":24,"width":375,"height":96},"rotation":0,"radius":0,"borders":[],"fills":[{"fillType":"color","color":{"r":32,"g":123,"b":194,"a":1,"color-hex":"#207BC2 100%","argb-hex":"#FF207BC2","css-rgba":"rgba(32,123,194,1)","ui-color":"(r:0.13 g:0.48 b:0.76 a:1.00)"}}],"shadows":[],"opacity":1,"styleName":"status bar color","css":["background: #207BC2;"]},{"objectID":"BF7CF2E0-CB69-4DC6-8B53-1CFF3DAE0DD7","type":"shape","name":"ui_icon_prev_size","rect":{"x":10,"y":34,"width":24,"height":24},"rotation":0,"radius":0,"borders":[],"fills":[{"fillType":"color","color":{"r":255,"g":255,"b":255,"a":0,"color-hex":"#FFFFFF 0%","argb-hex":"#00FFFFFF","css-rgba":"rgba(255,255,255,0)","ui-color":"(r:1.00 g:1.00 b:1.00 a:0.00)"}}],"shadows":[],"opacity":1,"styleName":"","css":["background: rgba(255,255,255,0.00);"]},{"objectID":"324F9A0F-9A84-4340-9693-9F0C6B980D2B","type":"shape","name":"ui_icon_prev","rect":{"x":17,"y":37,"width":10,"height":18},"rotation":0,"radius":0,"borders":[],"fills":[{"fillType":"color","color":{"r":255,"g":255,"b":255,"a":1,"color-hex":"#FFFFFF 100%","argb-hex":"#FFFFFFFF","css-rgba":"rgba(255,255,255,1)","ui-color":"(r:1.00 g:1.00 b:1.00 a:1.00)"}}],"shadows":[],"opacity":1,"styleName":"","css":["background: #FFFFFF;"]},{"objectID":"C705EAAA-3D41-4813-89AF-B72F4C088D2E","type":"text","name":"優惠","rect":{"x":171,"y":34,"width":34,"height":24},"rotation":0,"radius":0,"borders":[],"fills":[],"shadows":[],"opacity":1,"styleName":"","content":"優惠","color":{"r":255,"g":255,"b":255,"a":1,"color-hex":"#FFFFFF 100%","argb-hex":"#FFFFFFFF","css-rgba":"rgba(255,255,255,1)","ui-color":"(r:1.00 g:1.00 b:1.00 a:1.00)"},"fontSize":17,"fontFace":"PingFangTC-Medium","textAlign":"center","letterSpacing":0,"lineHeight":24,"css":["font-family: PingFangTC-Medium;","font-size: 17px;","color: #FFFFFF;","letter-spacing: 0;"]},{"objectID":"1E3D4C58-2A70-46F6-A56C-1A8B91485D26","type":"shape","name":"BG","rect":{"x":0,"y":0,"width":375,"height":24},"rotation":0,"radius":0,"borders":[],"fills":[{"fillType":"color","color":{"r":32,"g":123,"b":194,"a":1,"color-hex":"#207BC2 100%","argb-hex":"#FF207BC2","css-rgba":"rgba(32,123,194,1)","ui-color":"(r:0.13 g:0.48 b:0.76 a:1.00)"}}],"shadows":[],"opacity":1,"styleName":"status bar color","css":["background: #207BC2;"]},{"objectID":"FBA2F31B-34FE-48B7-BB8A-BFACDF76E08A","type":"shape","name":"Battery","rect":{"x":339.8,"y":6.8,"width":28.7,"height":10.9},"rotation":0,"radius":0,"borders":[],"fills":[{"fillType":"color","color":{"r":255,"g":255,"b":255,"a":1,"color-hex":"#FFFFFF 100%","argb-hex":"#FFFFFFFF","css-rgba":"rgba(255,255,255,1)","ui-color":"(r:1.00 g:1.00 b:1.00 a:1.00)"}}],"shadows":[],"opacity":1,"styleName":"","css":["background: #FFFFFF;"]},{"objectID":"FB483434-2F03-4683-956F-0640AC6F3B1A","type":"text","name":"9:41 AM","rect":{"x":161.7,"y":2.9,"width":52,"height":17},"rotation":0,"radius":0,"borders":[],"fills":[],"shadows":[],"opacity":1,"styleName":"","content":"9:41 AM","color":{"r":255,"g":255,"b":255,"a":1,"color-hex":"#FFFFFF 100%","argb-hex":"#FFFFFFFF","css-rgba":"rgba(255,255,255,1)","ui-color":"(r:1.00 g:1.00 b:1.00 a:1.00)"},"fontSize":14.0625,"fontFace":"Helvetica","textAlign":"left","letterSpacing":0,"lineHeight":17,"css":["font-family: Helvetica;","font-size: 14.06px;","color: #FFFFFF;"]},{"objectID":"928CE732-A265-4B57-B723-18C6DA9BD9D1","type":"shape","name":"WiFi","rect":{"x":53.2,"y":6.7,"width":14.6,"height":10.4},"rotation":0,"radius":0,"borders":[],"fills":[{"fillType":"color","color":{"r":255,"g":255,"b":255,"a":1,"color-hex":"#FFFFFF 100%","argb-hex":"#FFFFFFFF","css-rgba":"rgba(255,255,255,1)","ui-color":"(r:1.00 g:1.00 b:1.00 a:1.00)"}}],"shadows":[],"opacity":1,"styleName":"","css":["background: #FFFFFF;"]},{"objectID":"B6E03900-EC7E-46A4-A78B-274AEFE6C1BF","type":"shape","name":"Bars","rect":{"x":7.6,"y":9,"width":39.3,"height":6.3},"rotation":0,"radius":0,"borders":[],"fills":[{"fillType":"color","color":{"r":255,"g":255,"b":255,"a":1,"color-hex":"#FFFFFF 100%","argb-hex":"#FFFFFFFF","css-rgba":"rgba(255,255,255,1)","ui-color":"(r:1.00 g:1.00 b:1.00 a:1.00)"}}],"shadows":[],"opacity":1,"styleName":"","css":["background: #FFFFFF;"]},{"objectID":"564F90EA-9BC2-44D7-970A-01A9C32FAA70","type":"shape","name":"Rectangle 7","rect":{"x":8,"y":128,"width":359,"height":363,"maxX":367,"maxY":491},"rotation":0,"radius":4,"borders":[],"fills":[{"fillType":"color","color":{"r":255,"g":255,"b":255,"a":1,"color-hex":"#FFFFFF 100%","argb-hex":"#FFFFFFFF","css-rgba":"rgba(255,255,255,1)","ui-color":"(r:1.00 g:1.00 b:1.00 a:1.00)"}}],"shadows":[{"type":"outer","offsetX":0,"offsetY":1,"blurRadius":3,"spread":0,"color":{"r":0,"g":0,"b":0,"a":0.1998697916666667,"color-hex":"#000000 20%","argb-hex":"#33000000","css-rgba":"rgba(0,0,0,0.2)","ui-color":"(r:0.00 g:0.00 b:0.00 a:0.20)"}}],"opacity":1,"styleName":"","css":["background: #FFFFFF;","box-shadow: 0 1px 3px 0 rgba(0,0,0,0.20);","border-radius: 4px 4px 0 0 0 4px 4px 0 0 0;"]},{"objectID":"C19F3055-AA9B-401D-B66C-4CAD36815E12","type":"shape","name":"Rectangle 3","rect":{"x":16,"y":432,"width":343,"height":47},"rotation":0,"radius":100,"borders":[],"fills":[{"fillType":"color","color":{"r":32,"g":123,"b":194,"a":1,"color-hex":"#207BC2 100%","argb-hex":"#FF207BC2","css-rgba":"rgba(32,123,194,1)","ui-color":"(r:0.13 g:0.48 b:0.76 a:1.00)"}}],"shadows":[],"opacity":1,"styleName":"","css":["background: #207BC2;","border-radius: 100px;"]},{"objectID":"FDAD7F8E-DA9B-4FC0-8BA6-B6952EA7FE68","type":"text","name":"兌換","rect":{"x":169,"y":442,"width":37,"height":27},"rotation":0,"radius":0,"borders":[],"fills":[],"shadows":[],"opacity":1,"styleName":"","content":"兌換","color":{"r":255,"g":255,"b":255,"a":1,"color-hex":"#FFFFFF 100%","argb-hex":"#FFFFFFFF","css-rgba":"rgba(255,255,255,1)","ui-color":"(r:1.00 g:1.00 b:1.00 a:1.00)"},"fontSize":18,"fontFace":"SourceHanSansTC-Medium","textAlign":"center","letterSpacing":0,"lineHeight":27,"css":["font-family: SourceHanSansTC-Medium;","font-size: 18px;","color: #FFFFFF;"]},{"objectID":"9CEFEEB9-65F5-45E2-8CB2-7EAFF09E5242","type":"shape","name":"Rectangle 8","rect":{"x":8,"y":128,"width":359,"height":179},"rotation":0,"radius":0,"borders":[],"fills":[{"fillType":"color","color":{"r":235,"g":235,"b":235,"a":1,"color-hex":"#EBEBEB 100%","argb-hex":"#FFEBEBEB","css-rgba":"rgba(235,235,235,1)","ui-color":"(r:0.92 g:0.92 b:0.92 a:1.00)"}}],"shadows":[],"opacity":1,"styleName":"","css":["background: #EBEBEB;"]},{"objectID":"149E680F-E02F-483E-9EEF-6F89748AB2CA","type":"shape","name":"長版_12","rect":{"x":8,"y":128,"width":359,"height":179},"rotation":0,"radius":0,"borders":[],"fills":[],"shadows":[],"opacity":1,"styleName":""},{"objectID":"6A7AD0DC-A009-48E6-B0F5-1644F9E1DBC2","type":"text","name":"鬍鬚張魯肉飯","rect":{"x":16,"y":315,"width":335,"height":20},"rotation":0,"radius":0,"borders":[],"fills":[],"shadows":[],"opacity":1,"styleName":"","content":"鬍鬚張魯肉飯","color":{"r":34,"g":34,"b":34,"a":1,"color-hex":"#222222 100%","argb-hex":"#FF222222","css-rgba":"rgba(34,34,34,1)","ui-color":"(r:0.13 g:0.13 b:0.13 a:1.00)"},"fontSize":14,"fontFace":"PingFangTC-Medium","textAlign":"left","letterSpacing":0,"lineHeight":20,"css":["font-family: PingFangTC-Medium;","font-size: 14px;","color: #222222;"]},{"objectID":"AF50EFF7-F386-4E2E-959D-EE3B07BD4F72","type":"text","name":"使用期限：2017/10/31","rect":{"x":16,"y":391,"width":133,"height":18},"rotation":0,"radius":0,"borders":[],"fills":[],"shadows":[],"opacity":1,"styleName":"","content":"使用期限：2017/10/31","color":{"r":155,"g":155,"b":155,"a":1,"color-hex":"#9B9B9B 100%","argb-hex":"#FF9B9B9B","css-rgba":"rgba(155,155,155,1)","ui-color":"(r:0.61 g:0.61 b:0.61 a:1.00)"},"fontSize":13,"fontFace":"PingFangTC-Medium","textAlign":"left","letterSpacing":0,"lineHeight":18,"css":["font-family: PingFangTC-Medium;","font-size: 13px;","color: #9B9B9B;"]},{"objectID":"43FEBCC8-FA78-43B3-AB3D-58E60FB1A6EE","type":"text","name":"週一到週五晚餐時段來店消費魯肉飯套餐 即","rect":{"x":16,"y":341,"width":335,"height":44},"rotation":0,"radius":0,"borders":[],"fills":[],"shadows":[],"opacity":1,"styleName":"","content":"週一到週五晚餐時段來店消費魯肉飯套餐\n即可享85折優惠","color":{"r":208,"g":2,"b":27,"a":1,"color-hex":"#D0021B 100%","argb-hex":"#FFD0021B","css-rgba":"rgba(208,2,27,1)","ui-color":"(r:0.82 g:0.01 b:0.11 a:1.00)"},"fontSize":16,"fontFace":"PingFangTC-Medium","textAlign":"left","letterSpacing":0,"lineHeight":22,"css":["font-family: PingFangTC-Medium;","font-size: 16px;","color: #D0021B;"]},{"objectID":"F455182E-896A-410B-8F58-A05C8C5017A7","type":"shape","name":"Line","rect":{"x":20,"y":418,"width":338,"height":2},"rotation":0,"radius":0,"borders":[{"fillType":"color","position":"center","thickness":1,"color":{"r":218,"g":218,"b":218,"a":1,"color-hex":"#DADADA 100%","argb-hex":"#FFDADADA","css-rgba":"rgba(218,218,218,1)","ui-color":"(r:0.85 g:0.85 b:0.85 a:1.00)"}}],"fills":[],"shadows":[],"opacity":1,"styleName":"","css":["border: 1px solid #DADADA;"]},{"objectID":"47883417-43EE-4E89-BBE9-F449707DDE9F","type":"shape","name":"Rectangle 3","rect":{"x":14,"y":70,"width":347,"height":36},"rotation":0,"radius":4,"borders":[],"fills":[{"fillType":"color","color":{"r":255,"g":255,"b":255,"a":1,"color-hex":"#FFFFFF 100%","argb-hex":"#FFFFFFFF","css-rgba":"rgba(255,255,255,1)","ui-color":"(r:1.00 g:1.00 b:1.00 a:1.00)"}}],"shadows":[],"opacity":1,"styleName":"","css":["background: #FFFFFF;","border-radius: 4px;"]},{"objectID":"6AC21FC9-ECC4-40AB-88AD-08A01497820F","type":"shape","name":"Rectangle 3","rect":{"x":188,"y":71,"width":172,"height":34},"rotation":0,"radius":0,"borders":[],"fills":[{"fillType":"color","color":{"r":32,"g":123,"b":194,"a":1,"color-hex":"#207BC2 100%","argb-hex":"#FF207BC2","css-rgba":"rgba(32,123,194,1)","ui-color":"(r:0.13 g:0.48 b:0.76 a:1.00)"}}],"shadows":[],"opacity":1,"styleName":"","css":["background: #207BC2;"]},{"objectID":"D591C53B-7516-4B06-A9FC-4A60BE2DE721","type":"text","name":"尚未兌換","rect":{"x":73,"y":78,"width":56,"height":20},"rotation":0,"radius":0,"borders":[],"fills":[],"shadows":[],"opacity":1,"styleName":"","content":"尚未兌換","color":{"r":32,"g":123,"b":194,"a":1,"color-hex":"#207BC2 100%","argb-hex":"#FF207BC2","css-rgba":"rgba(32,123,194,1)","ui-color":"(r:0.13 g:0.48 b:0.76 a:1.00)"},"fontSize":14,"fontFace":"PingFangTC-Medium","textAlign":"center","letterSpacing":0,"lineHeight":20,"css":["font-family: PingFangTC-Medium;","font-size: 14px;","color: #207BC2;","letter-spacing: 0;"]},{"objectID":"4C8AF61C-C649-4CAF-B03F-8A0C7A4D0B8E","type":"text","name":"已兌換","rect":{"x":253,"y":78,"width":42,"height":20},"rotation":0,"radius":0,"borders":[],"fills":[],"shadows":[],"opacity":1,"styleName":"","content":"已兌換","color":{"r":255,"g":255,"b":255,"a":1,"color-hex":"#FFFFFF 100%","argb-hex":"#FFFFFFFF","css-rgba":"rgba(255,255,255,1)","ui-color":"(r:1.00 g:1.00 b:1.00 a:1.00)"},"fontSize":14,"fontFace":"PingFangTC-Medium","textAlign":"center","letterSpacing":0,"lineHeight":20,"css":["font-family: PingFangTC-Medium;","font-size: 14px;","color: #FFFFFF;","letter-spacing: 0;"]},{"objectID":"1D7DDBE8-471C-4471-927A-8027F2A357A1","type":"shape","name":"Rectangle 9","rect":{"x":8,"y":255,"width":81,"height":40},"rotation":0,"radius":0,"borders":[],"fills":[{"fillType":"color","color":{"r":208,"g":2,"b":27,"a":0.8,"color-hex":"#D0021B 80%","argb-hex":"#CCD0021B","css-rgba":"rgba(208,2,27,0.8)","ui-color":"(r:0.82 g:0.01 b:0.11 a:0.80)"}}],"shadows":[],"opacity":1,"styleName":"","css":["background: rgba(208,2,27,0.80);"]},{"objectID":"40AFEFED-B6EA-4595-91D8-5E39B83682B4","type":"text","name":"85折","rect":{"x":20,"y":255,"width":57,"height":40},"rotation":0,"radius":0,"borders":[],"fills":[],"shadows":[],"opacity":1,"styleName":"","content":"85折","color":{"r":255,"g":255,"b":255,"a":1,"color-hex":"#FFFFFF 100%","argb-hex":"#FFFFFFFF","css-rgba":"rgba(255,255,255,1)","ui-color":"(r:1.00 g:1.00 b:1.00 a:1.00)"},"fontSize":32,"fontFace":"PingFangTC-Semibold","textAlign":"left","letterSpacing":0,"lineHeight":40,"css":["font-family: PingFangTC-Semibold;","font-size: 32px;","color: #FFFFFF;","line-height: 40px;"]},{"objectID":"22B1A1B4-BB79-40F1-9A35-34D1633FF435","type":"text","name":"折","rect":{"x":59.4,"y":255,"width":18,"height":40},"rotation":0,"radius":0,"borders":[],"fills":[],"shadows":[],"opacity":1,"styleName":"","content":"折","color":{"r":null,"g":null,"b":null,"a":1,"color-hex":"#000000 100%","argb-hex":"#FF000000","css-rgba":"rgba(NaN,NaN,NaN,1)","ui-color":"(r:NaN g:NaN b:NaN a:1.00)"},"fontSize":18,"fontFace":"PingFangTC-Semibold","textAlign":"left","letterSpacing":0,"lineHeight":40,"css":["font-family: PingFangTC-Semibold;","font-size: 18px;","color: #000000;","line-height: 40px;"]}],"notes":[],"pageName":"Page 1","pageObjectID":"5A306ABE-D81A-4EC7-8DB8-E666D32B7554","name":"iOS - coupon","slug":"page-1-ios---coupon","objectID":"9FD0C7C3-FB53-46DF-8336-A58356D232E7","width":375,"height":667,"imagePath":"preview/page-1-ios---coupon.png"}],"slices":[],"colors":[]}) });
     -->
     </script>
   </head>
